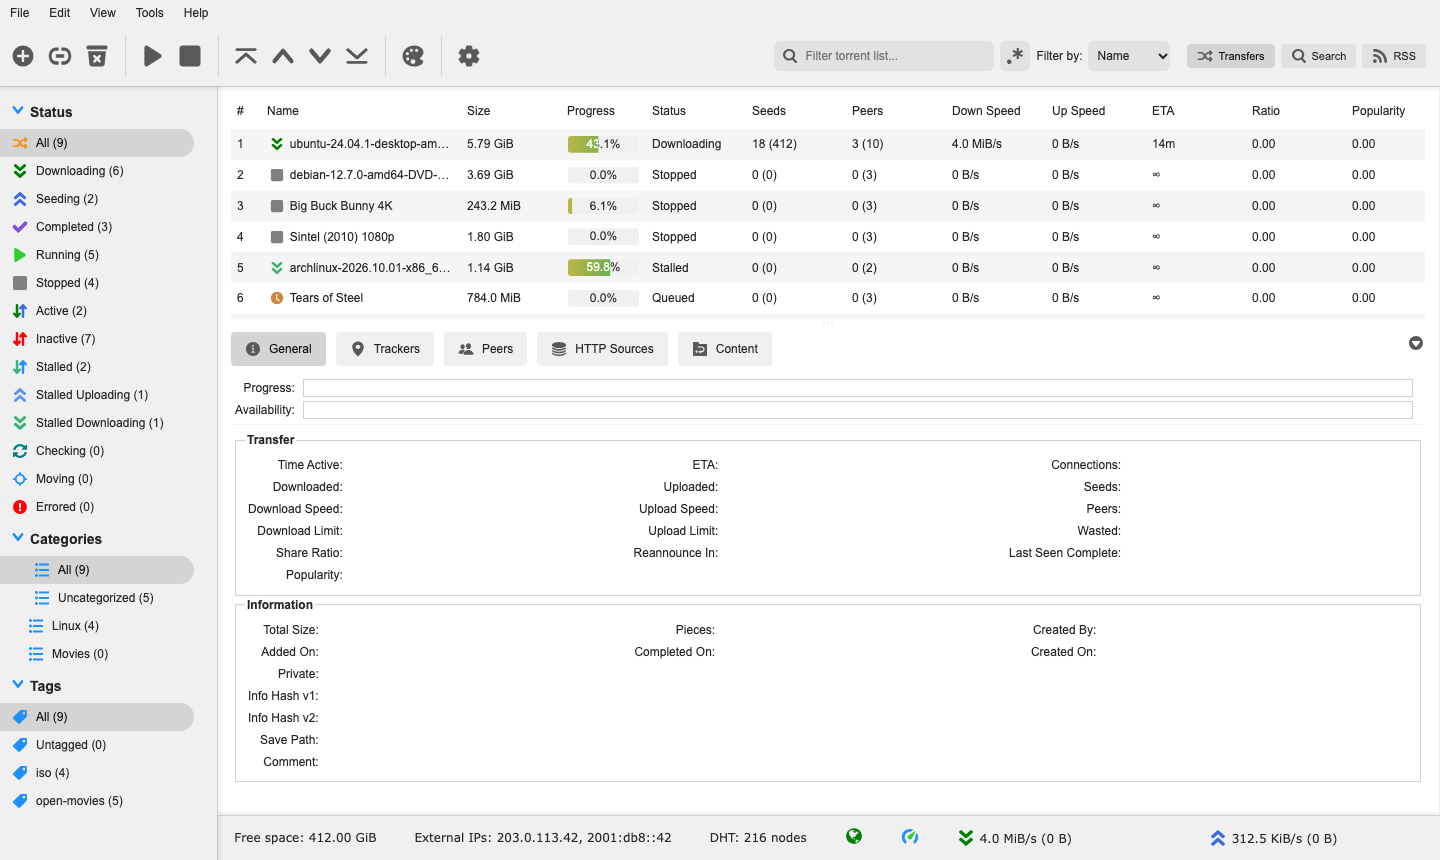
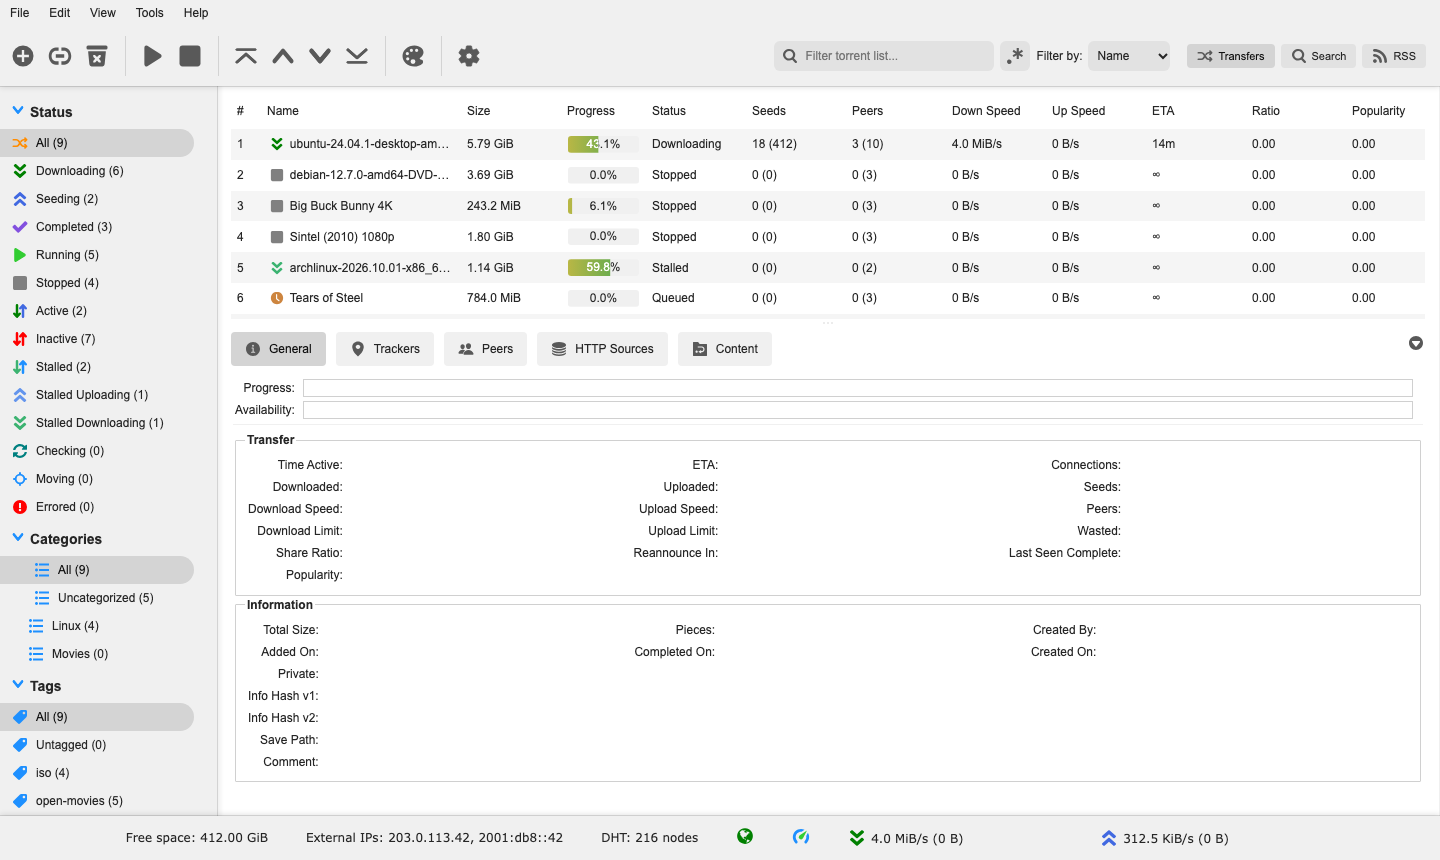
Full-width status bar, as in the stock layout
The bar no longer starts at the sidebar's right edge, which drops the
theme's only use of CSS anchor positioning. It is raised above the
sidebar's edge strip so its top hairline runs unbroken across the window.

Also removes rules that had no effect: a dark palette value equal to the
stock one, a float on a flex item, and a duplicate #desktopFooter block.
Screenshots retaken.

Changed region(s): [[0.0938, 0.9674, 0.5625, 0.9977], [0.5938, 0.9674, 0.9375, 0.9977]]

diff --git a/css/ezqbit.css b/css/ezqbit.css
@@ -51,7 +51,6 @@
 
     --color-accent-blue: hsl(210deg 65% 55%);
     --color-text-blue: hsl(210deg 88% 73%);
-    --color-text-orange: hsl(26deg 65% 70%);
     --color-text-green: hsl(134deg 55% 55%);
     --color-text-default: #e6e6e6;
     --color-text-white: #ffffff;
@@ -115,17 +114,13 @@
 }
 
 /* The sidebar gets the same hairline and shadow on its right side as the top bar has below
-   it. The column handle carries them, since it is the sidebar's right edge, and its ::after
-   continues them down beside the status bar, so the sidebar reads as running to the bottom
-   of the window. For that, the handle and #pageWrapper must not clip, and #pageWrapper has
-   no border, so nothing separates the sidebar from the area below it. */
+   it. The column handle carries them, since it is the sidebar's right edge; for that the
+   handle must not clip. #pageWrapper has no border: the bars' own hairlines edge it. */
 #pageWrapper {
     border: 0;
-    overflow: visible;
 }
 
 #filtersColumn_handle {
-    anchor-name: --theme-sidebar-edge; /* the status bar starts here, see below */
     background: var(--theme-panel);
     border: 0;
     overflow: visible;
@@ -144,7 +139,7 @@
             right / 7px 100% no-repeat,
         linear-gradient(var(--theme-panel) 0 0) left / calc(100% - 7px) 100% no-repeat;
     content: "";
-    inset: 0 -7px calc(-1 * var(--theme-footer-height)) 0;
+    inset: 0 -7px 0 0;
     pointer-events: none;
     position: absolute;
 }
@@ -214,7 +209,6 @@
 }
 
 #mainWindowTabs {
-    float: none;
     margin: 0 0 0 8px;
     order: 2;
 }
@@ -372,28 +366,20 @@ progress-bar {
    Status bar
 --------------------------------------------------------------- */
 
-/* Taller, centered, no separator glyphs; mocha measures this height, so the layout follows */
-#desktopFooter {
-    height: var(--theme-footer-height);
-}
-
-/* Same hairline and shadow as the top bar, along the top. The bar starts at the sidebar's right edge
-   instead of the window's left edge, so its contents never run in under the sidebar when
-   the window is narrow. CSS anchor positioning reads where that edge is (the sidebar is
-   resizable); with the sidebar hidden, or in a browser without anchor positioning, it
-   stays full width. */
+/* Same hairline and shadow as the top bar, along the top. z-index so they are drawn over
+   the sidebar's edge strip, which would otherwise break the line where the two meet. */
 #desktopFooterWrapper {
     box-shadow: 0 -1px 0 var(--theme-hairline), 0 -1px 6px var(--theme-edge-shadow);
     height: var(--theme-footer-height);
-    left: anchor(--theme-sidebar-edge right, 0px);
-    right: 0;
-    width: auto;
+    z-index: 2;
 }
 
+/* Taller, centered, no separator glyphs; mocha measures this height, so the layout follows */
 #desktopFooter {
     align-items: center;
     display: flex;
     font-size: 12px;
+    height: var(--theme-footer-height);
     padding: 0 14px;
 }
 
